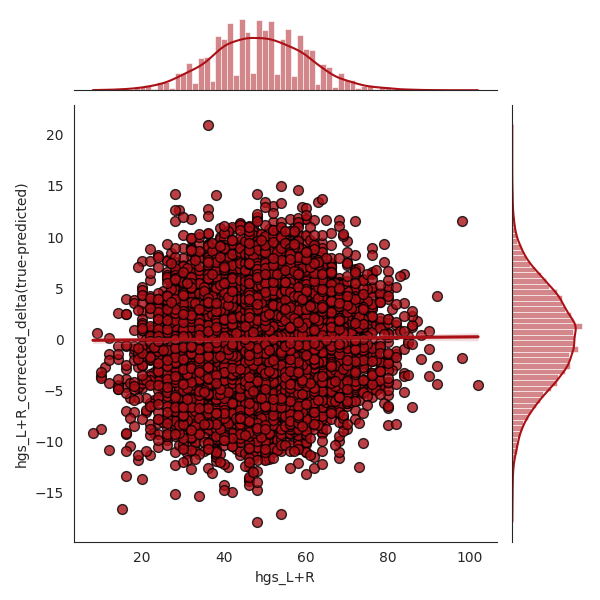
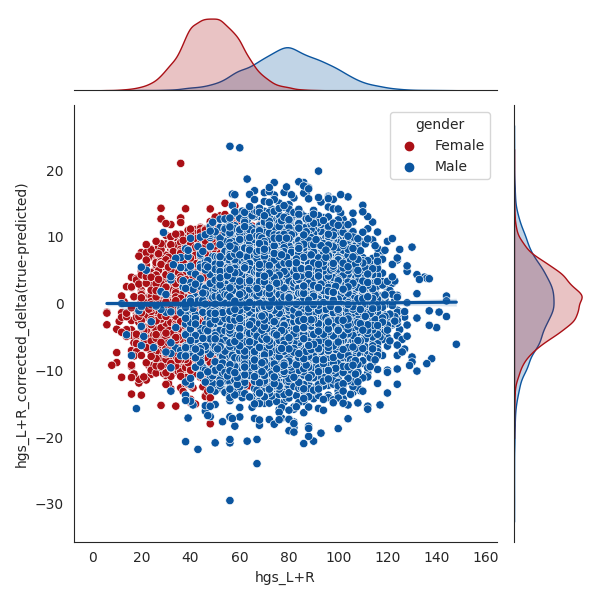
prepare data for tables of manuscript

diff --git a/exec/6_test_trained_models_on_healthy_holdout_test_set/plot_jointplot_scatterplot_with_versus_without_bias_hgs.py b/exec/6_test_trained_models_on_healthy_holdout_test_set/plot_jointplot_scatterplot_with_versus_without_bias_hgs.py
@@ -102,8 +102,8 @@ df_male_correlation_values, df_male_r2_values, df_male_mae_values = load_predict
     data_set,
 )
 
-# print("===== Done! =====")
-# embed(globals(), locals())
+print("===== Done! =====")
+embed(globals(), locals())
 ###############################################################################
 df = pd.concat([df_female, df_male], axis=0)
 #  Replace 0 with "Female" and 1 with "Male" in the gender column
@@ -123,23 +123,32 @@ color_male = palette_male[5]
 
 custom_palette = {"Female": color_female, "Male": color_male}
 ###############################################################################
+# Define columns
+x_col = f"{target}"
+y_cols = [f"{target}_predicted", f"{target}_corrected_predicted", f"{target}_delta(true-predicted)", f"{target}_corrected_delta(true-predicted)"]  # Replace 'another_y_column' with the actual column name
+hue_col = "gender"
+hue_order = ["Female", "Male"]
 
 sns.set_style("white")
 
-fig, ax = plt.subplots(2, 2, figsize=(15, 15))
-# Plot female and male data for target vs. predicted in the first subplot
-sns.jointplot(data=df, x=f"{target}", y=f"{target}_predicted", hue="gender", palette=custom_palette, ax=ax[0][0])
+fig = plt.figure()
 
-# Jointplot for target vs. corrected predicted in the second subplot
-sns.jointplot(data=df, x=f"{target}", y=f"{target}_corrected_predicted", hue="gender", palette=custom_palette, ax=ax[0][1])
+for y in y_cols:
+    # Plot female and male data for target vs. predicted in the first subplot
+    g = sns.jointplot(data=df, x=x_col, y=y, hue=hue_col, palette=custom_palette)
+    for _, gr in df.groupby(hue_col):
+        sns.regplot(x=x_col, y=y, data=gr, scatter=False, scatter_kws={'s': 50, 'edgecolor': 'black'}, line_kws={"color": custom_palette})
 
-# Jointplot for target vs. delta (true-predicted) in the third subplot
-sns.jointplot(data=df, x=f"{target}", y=f"{target}_delta(true-predicted)", hue="gender", palette=custom_palette, ax=ax[1][0])
+#-----------------------------------------------------------#
+plt.tight_layout()
+#-----------------------------------------------------------#
+plt.show()
+plt.savefig(plot_file)
+plt.close()
 
-# Jointplot for target vs. corrected delta (true-predicted) in the fourth subplot
-sns.jointplot(data=df, x=f"{target}", y=f"{target}_corrected_delta(true-predicted)", hue="gender", palette=custom_palette, ax=ax[1][1])
 print("===== Done! =====")
 embed(globals(), locals())
+# truncate=False,
 #-----------------------------------------------------------#
 ax[0][0].set_ylabel("Predicted HGS", fontsize=16)
 ax[1][0].set_ylabel("Delta HGS", fontsize=16)
